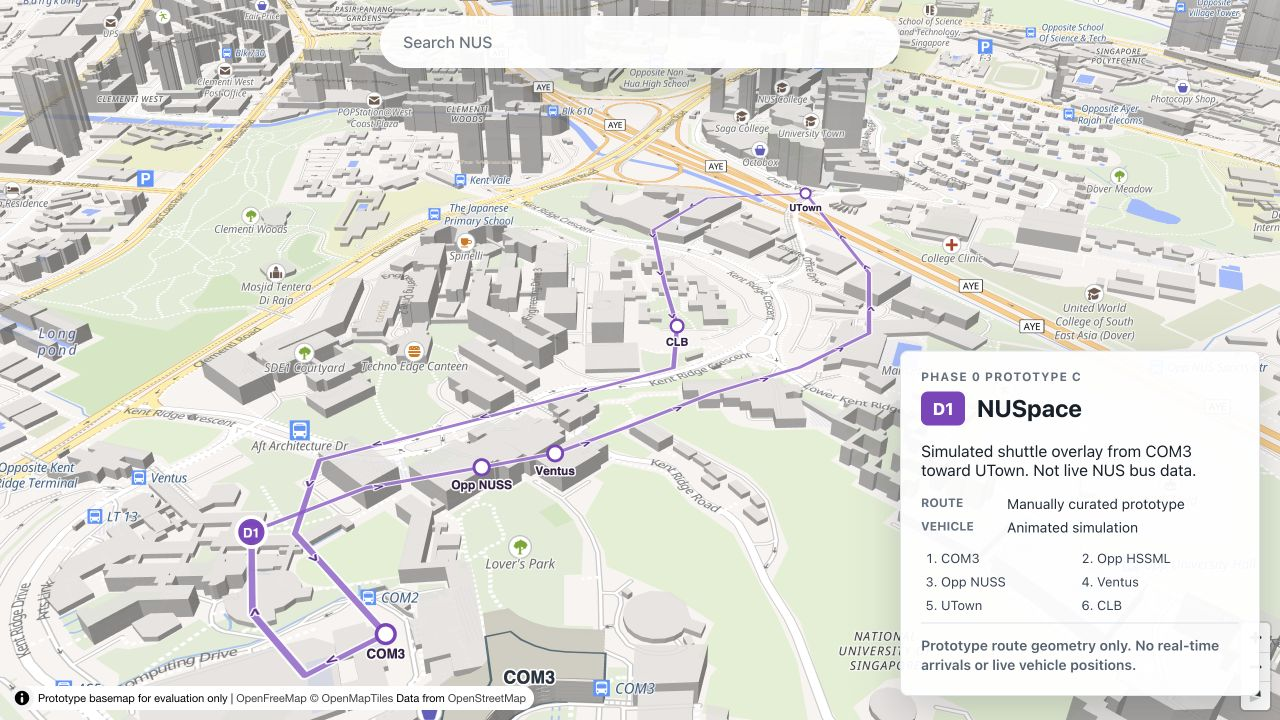
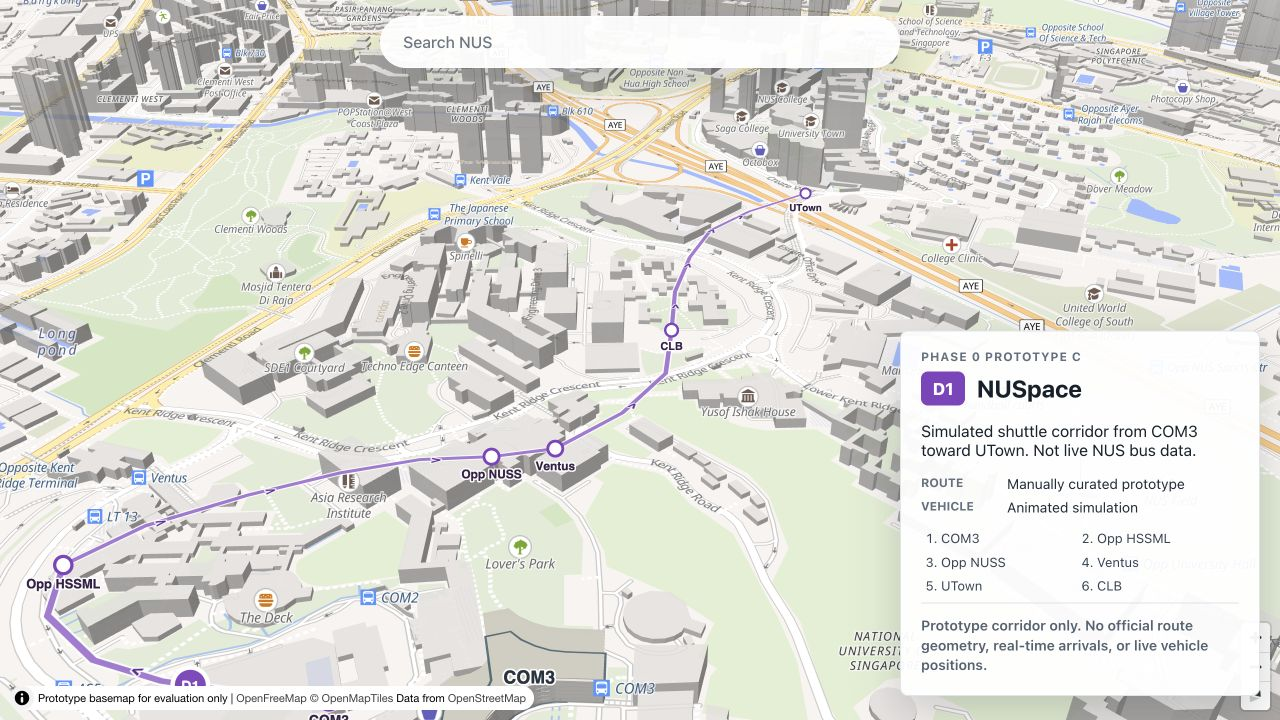
Refine Prototype C route corridor

diff --git a/src/map/CampusMap.tsx b/src/map/CampusMap.tsx
@@ -514,7 +514,7 @@ export function CampusMap() {
             <p>
               {mapState === 'error'
                 ? 'Basemap failed to load.'
-                : 'Simulated shuttle overlay from COM3 toward UTown. Not live NUS bus data.'}
+                : 'Simulated shuttle corridor from COM3 toward UTown. Not live NUS bus data.'}
             </p>
             <dl className="routeFacts">
               <div>
@@ -535,7 +535,7 @@ export function CampusMap() {
               <li>CLB</li>
             </ol>
             <p className="truthNote">
-              Prototype route geometry only. No real-time arrivals or live vehicle positions.
+              Prototype corridor only. No official route geometry, real-time arrivals, or live vehicle positions.
             </p>
           </>
         )}

diff --git a/docs/decisions/phase-0-review.md b/docs/decisions/phase-0-review.md
@@ -64,7 +64,7 @@ Classification: keep as simulation/data-path prototype
 
 Acceptance criteria:
 
-- [x] Route line follows plausible roads. Evidence: `data/prototype/d1-route.geojson` contains a manually curated D1-style route line around COM3, Kent Ridge, and UTown using public stop sequence references and OSM road context.
+- [x] Route line follows a plausible campus-road corridor. Evidence: `data/prototype/d1-route.geojson` contains a manually curated one-direction D1-style corridor from COM3 toward UTown using public stop sequence references and OSM road context.
 - [x] Stop sequence is visible. Evidence: stop markers and labels render from `data/prototype/d1-stops.geojson`, and the detail panel lists the sequence.
 - [x] Direction arrows are present. Evidence: `prototype-d1-route-arrows` uses line-placement symbols along the route.
 - [x] Animation is smooth enough on mobile viewport for Phase 0. Evidence: browser visual QA at 390 x 844 showed the simulated marker and route without app failure; no automated frame-rate test exists yet.
@@ -73,12 +73,13 @@ Acceptance criteria:
 
 Notes:
 
-- Route coordinate source: manually curated prototype line using public D1 stop sequence reference and OSM road context.
+- Route coordinate source: manually curated prototype corridor using public D1 stop sequence reference and OSM road context.
 - Stop coordinate source: manually curated prototype points for Phase 0 only.
 - Animation approach: requestAnimationFrame updates a MapLibre GeoJSON point source along the LineString.
 - Screenshot checkpoints:
   - `docs/screenshots/prototype-c-d1-route-desktop.jpg`, captured from `http://127.0.0.1:5173/` at desktop viewport.
   - `docs/screenshots/prototype-c-d1-route-mobile.jpg`, captured from `http://127.0.0.1:5173/` at 390 x 844 viewport.
 - Mobile UI issue: the bottom panel takes a large share of the viewport. Acceptable for Prototype C, but later map UI work should introduce collapsed and expanded sheet states.
+- Visual correction: the first Prototype C PR route was too obviously hand-sketched and cut across campus blocks. The route has been narrowed to a plausible one-direction corridor for animation testing, not a full official D1 loop.
 - Automated checks passed: `npm run lint`, `npm run typecheck`, `npm run test`, `npm run validate:data`, `npm run build`.
 - Build warning remains: bundled JavaScript chunk is larger than 500 kB after minification.

diff --git a/docs/design.md b/docs/design.md
@@ -55,18 +55,19 @@ Visual realism finding:
 
 ## Phase 0 Prototype C
 
-- D1 is rendered as a simulated shuttle route overlay with a purple route line, white casing, direction arrows, stop markers, and one animated vehicle marker.
+- D1 is rendered as a simulated shuttle corridor overlay with a purple route line, white casing, direction arrows, stop markers, and one animated vehicle marker.
 - The route uses a single route identity color so it reads as transit without overwhelming the basemap.
-- The panel explicitly states that the route is manually curated and the vehicle is an animated simulation.
+- The panel explicitly states that the corridor is manually curated and the vehicle is an animated simulation.
 - The UI must not imply live NUS shuttle access, live arrivals, or official route geometry.
 - Accepted desktop visual checkpoint: [Prototype C D1 desktop](screenshots/prototype-c-d1-route-desktop.jpg).
 - Accepted mobile visual checkpoint: [Prototype C D1 mobile](screenshots/prototype-c-d1-route-mobile.jpg).
 - Capture source: running local app at `http://127.0.0.1:5173/`.
 - Viewports: desktop browser viewport and 390 x 844 mobile viewport.
-- Feature state: D1 route overlay, stop labels, simulated vehicle, attribution, search control, and route detail panel visible.
+- Feature state: D1 corridor overlay, stop labels, simulated vehicle, attribution, search control, and route detail panel visible.
 
 Visual QA follow-up:
 
 - The mobile panel is readable but takes too much of the available map area.
 - Later map UI work should add collapsed and expanded bottom-sheet states before transit overlays become dense.
 - Route labels and stop markers are acceptable for one route, but broader transit work will need collision, filtering, and selected-route emphasis.
+- The corridor must not be treated as a complete official D1 route. It is an animation and rendering prototype until approved NUS route geometry is available.

diff --git a/docs/research-log.md b/docs/research-log.md
@@ -23,7 +23,7 @@
 
 - Task: render one NUS shuttle route overlay and animate one fake vehicle marker.
 - Sources checked: public D1 stop sequence references and OpenStreetMap road context.
-- Finding: D1 can be prototyped as a manually curated route overlay, but this does not establish official NUS route geometry, live arrival data, or live vehicle positions.
+- Finding: D1 can be prototyped as a manually curated one-direction corridor overlay, but this does not establish official NUS route geometry, a full loop, live arrival data, or live vehicle positions.
 - Decision: keep the Prototype C route and stop coordinates as `prototype-placeholder` data under `data/prototype/`, with source metadata in `data/sources.yml`.
 - Animation treatment: one MapLibre GeoJSON point is moved along the route with `requestAnimationFrame`.
 - Confidence: medium for testing map interaction and animation behavior, low for production route geometry.
